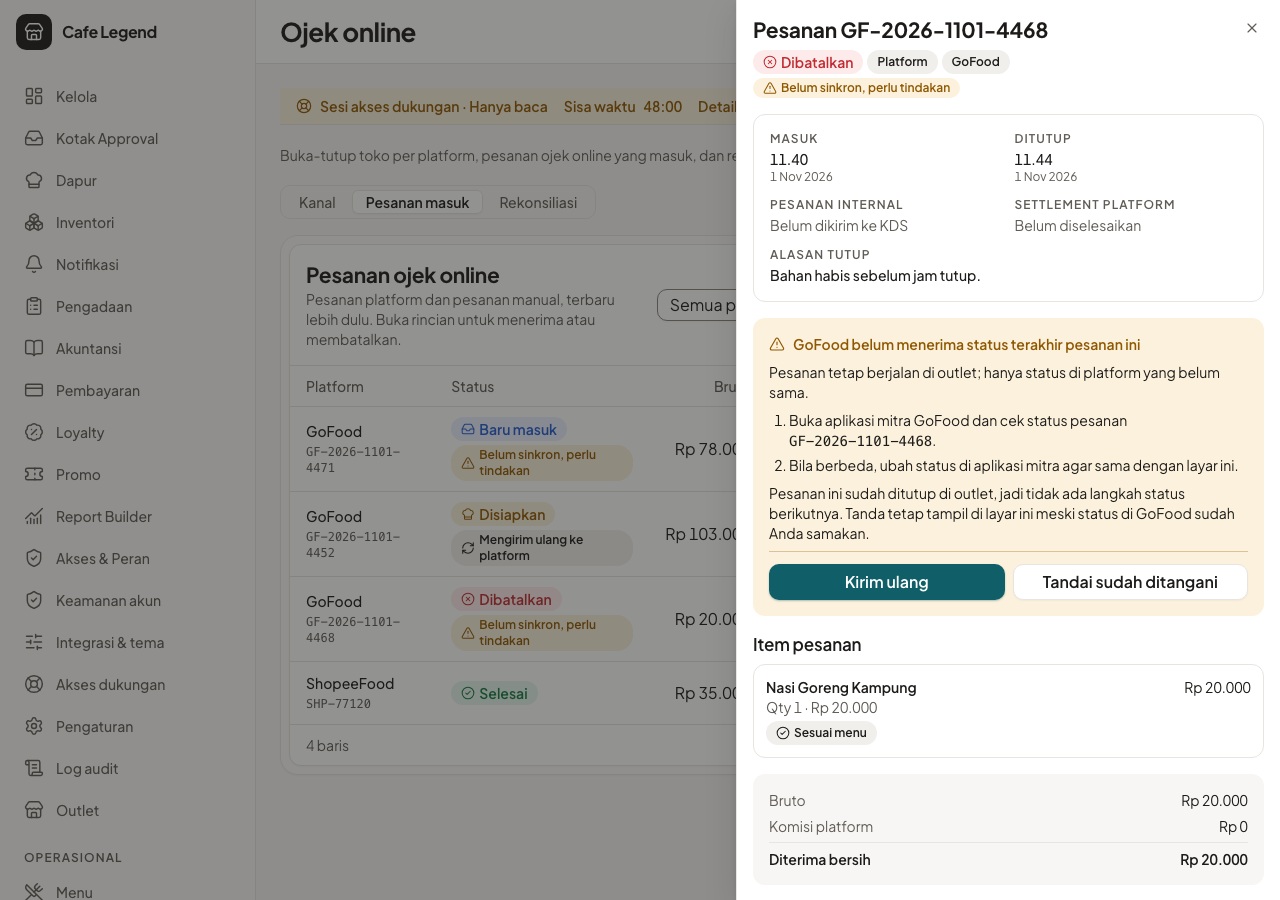
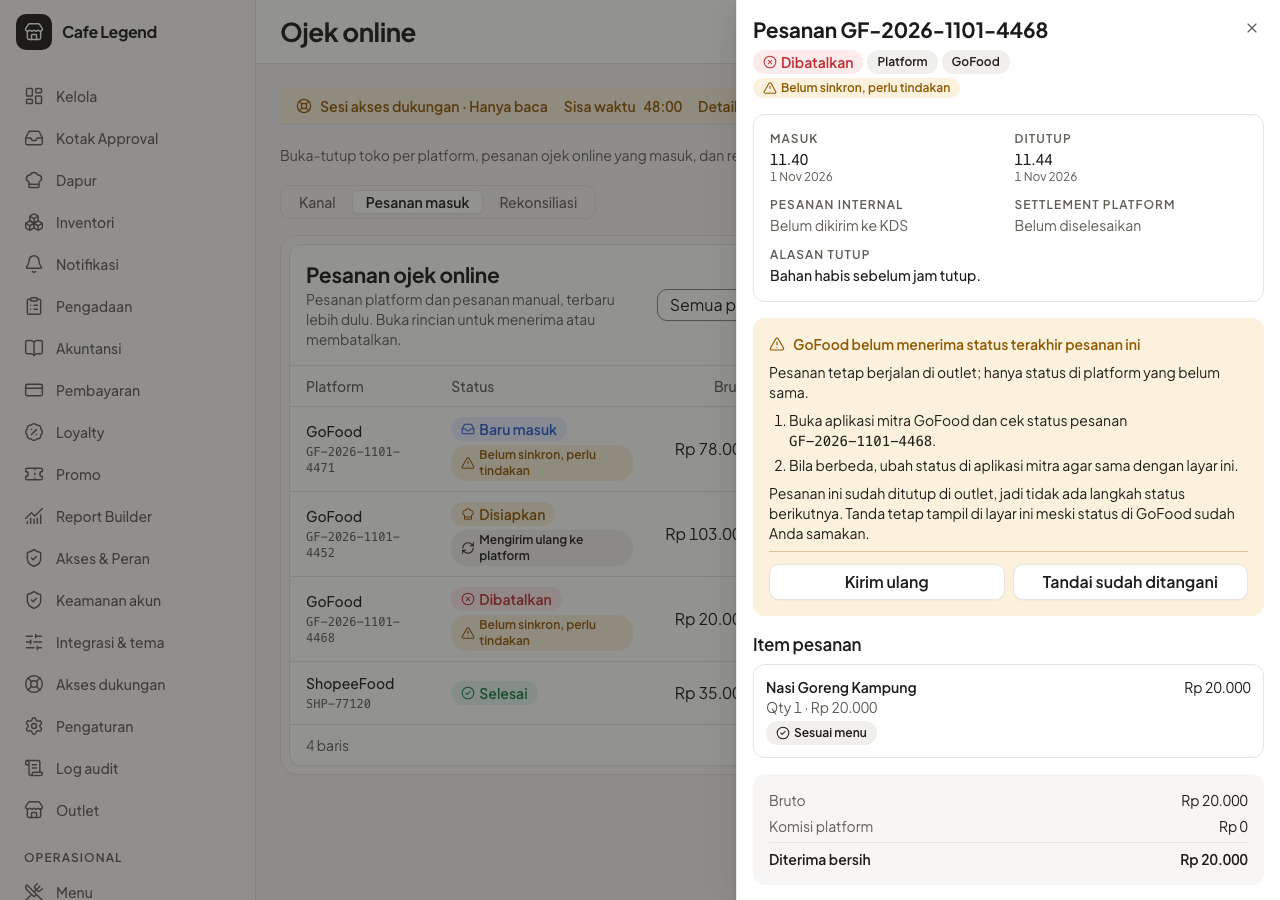
fix(delivery): review fixes for sync buttons (focus, stale 409 toast, mutual lock, read-only, copy) (legend-u37u3)

Changed region(s): [[0.5938, 0.6222, 0.7812, 0.6844]]

diff --git a/apps/web/src/features/ws08-delivery/components/order-detail-sheet.tsx b/apps/web/src/features/ws08-delivery/components/order-detail-sheet.tsx
@@ -20,6 +20,7 @@ import {
 import { Skeleton } from "@/components/ui/skeleton";
 import { Textarea } from "@/components/ui/textarea";
 import { useToast } from "@/components/ui/toast";
+import { useSupportReadOnly } from "@/features/ws01-support-access/read-only";
 import type {
   DeliveryChannelOrder,
   DeliveryOrderStatus,
@@ -130,6 +131,14 @@ function LineList({ order }: { order: DeliveryChannelOrder }) {
   );
 }
 
+function isStaleSync(error: unknown): boolean {
+  return (
+    typeof error === "object" &&
+    error !== null &&
+    (error as { code?: unknown }).code === "DELIVERY_SYNC_NOT_PENDING"
+  );
+}
+
 /**
  * Founder Q58: two recovery buttons on a `needs_action` order. Resend is one
  * request per press. Mark handled asks for an optional note first, because it
@@ -142,11 +151,13 @@ function PlatformSyncActions({
   order,
   platform,
   disabled,
+  onBusyChange,
 }: {
   outletId: string;
   order: DeliveryChannelOrder;
   platform: string;
   disabled: boolean;
+  onBusyChange: (busy: boolean) => void;
 }) {
   const t = useT();
   const toast = useToast();
@@ -155,6 +166,15 @@ function PlatformSyncActions({
   const [confirming, setConfirming] = React.useState(false);
   const [note, setNote] = React.useState("");
   const busy = resend.isPending || resolve.isPending;
+  const readOnly = useSupportReadOnly();
+  const locked = disabled || readOnly;
+  const resolveButton = React.useRef<HTMLButtonElement>(null);
+  // The status buttons below lock while a sync write is in flight, so the two
+  // never race on one order. Release on unmount: the mark clearing unmounts us.
+  React.useEffect(() => {
+    onBusyChange(busy);
+    return () => onBusyChange(false);
+  }, [busy, onBusyChange]);
   const stillFailing =
     resend.isSuccess && resend.data.platformSync === "needs_action";
   const error = resend.error ?? resolve.error;
@@ -172,8 +192,11 @@ function PlatformSyncActions({
           title: t("deliveryOps.platformSync.resendSuccess", { platform }),
           tone: "success",
         });
-    } catch {
-      // Shown below from `resend.error`.
+    } catch (caught) {
+      // Another staff member got there first: the refetch removes this block,
+      // so the inline error would never be seen. Say it in a toast instead.
+      if (isStaleSync(caught))
+        toast({ title: t(deliveryErrorKey(caught)), tone: "info" });
     }
   };
 
@@ -193,8 +216,9 @@ function PlatformSyncActions({
       });
       setConfirming(false);
       setNote("");
-    } catch {
-      // Shown below from `resolve.error`.
+    } catch (caught) {
+      if (isStaleSync(caught))
+        toast({ title: t(deliveryErrorKey(caught)), tone: "info" });
     }
   };
 
@@ -216,6 +240,7 @@ function PlatformSyncActions({
               placeholder={t("deliveryOps.platformSync.resolveNotePlaceholder")}
               rows={2}
               maxLength={300}
+              autoFocus
             />
           </FormField>
           <div className="flex flex-wrap gap-2">
@@ -227,14 +252,17 @@ function PlatformSyncActions({
                 setConfirming(false);
                 setNote("");
                 resolve.reset();
+                // The confirm area unmounts this button: hand focus back.
+                requestAnimationFrame(() => resolveButton.current?.focus());
               }}
             >
               {t("common.cancel")}
             </Button>
             <Button
               type="button"
+              variant="outline"
               loading={resolve.isPending}
-              disabled={disabled || busy}
+              disabled={locked || busy}
               onClick={() => void onResolve()}
             >
               {t("deliveryOps.platformSync.resolveConfirm")}
@@ -242,11 +270,20 @@ function PlatformSyncActions({
           </div>
         </div>
       )}
-      {stillFailing && (
-        <p role="status" className="font-medium">
-          {t("deliveryOps.platformSync.resendStillFailing", { platform })}
-        </p>
-      )}
+      <p
+        role="status"
+        className="flex items-start gap-1.5 font-medium text-warning empty:hidden"
+      >
+        {stillFailing && (
+          <>
+            <TriangleAlert
+              className="mt-0.5 size-4 shrink-0"
+              aria-hidden="true"
+            />
+            {t("deliveryOps.platformSync.resendStillFailing", { platform })}
+          </>
+        )}
+      </p>
       {error && (
         <p role="alert" className="font-medium text-danger">
           {t(deliveryErrorKey(error))}
@@ -256,16 +293,18 @@ function PlatformSyncActions({
         <div className="grid gap-2 sm:grid-cols-2">
           <Button
             type="button"
+            variant="outline"
             loading={resend.isPending}
-            disabled={disabled || busy}
+            disabled={locked || busy}
             onClick={() => void onResend()}
           >
             {t("deliveryOps.platformSync.resend")}
           </Button>
           <Button
+            ref={resolveButton}
             type="button"
             variant="outline"
-            disabled={disabled || busy}
+            disabled={locked || busy}
             onClick={() => {
               resend.reset();
               setConfirming(true);
@@ -285,11 +324,13 @@ function PlatformSyncNote({
   outletId,
   canAct,
   online,
+  onBusyChange,
 }: {
   order: DeliveryChannelOrder;
   outletId: string;
   canAct: boolean;
   online: boolean;
+  onBusyChange: (busy: boolean) => void;
 }) {
   const t = useT();
   if (order.platformSync === "ok") return null;
@@ -345,6 +386,7 @@ function PlatformSyncNote({
           order={order}
           platform={platform}
           disabled={!online}
+          onBusyChange={onBusyChange}
         />
       )}
     </div>
@@ -373,6 +415,7 @@ function OrderDetailBody({
   );
   const [reason, setReason] = React.useState("");
   const [showError, setShowError] = React.useState(false);
+  const [syncBusy, setSyncBusy] = React.useState(false);
 
   if (orderQuery.isPending) return <OrderSkeleton />;
   if (orderQuery.isError || !orderQuery.data)
@@ -395,7 +438,7 @@ function OrderDetailBody({
       ? t("deliveryOps.detail.reasonRequired")
       : undefined;
   const mutationError = update.error ? t(deliveryErrorKey(update.error)) : null;
-  const disabled = !canHandle || !online || update.isPending;
+  const disabled = !canHandle || !online || update.isPending || syncBusy;
 
   const moments: { labelKey: MessageKey; instant: string }[] = [
     { labelKey: "deliveryOps.detail.received", instant: order.receivedAt },
@@ -508,6 +551,7 @@ function OrderDetailBody({
           outletId={outletId}
           canAct={canHandle}
           online={online}
+          onBusyChange={setSyncBusy}
         />
 
         {order.customerNote && (

diff --git a/e2e/legend-u37u3.mock.spec.ts b/e2e/legend-u37u3.mock.spec.ts
@@ -55,7 +55,8 @@ const RESEND_OK_TOAST = "Terkirim ke GoFood. Tanda belum sinkron dihapus.";
 const RESEND_FAIL_TEXT =
   "Kirim ulang belum berhasil: GoFood masih menolak. Cek aplikasi mitra, lalu tekan Tandai sudah ditangani.";
 const HANDLED_TOAST = "Pesanan ditandai sudah ditangani.";
-const NOTE_LABEL = "Catatan (opsional)";
+// The label renders "Catatan" + "(opsional)" in separate spans (no space).
+const NOTE_LABEL = /^Catatan\s*\(opsional\)$/;
 const CONFIRM_HANDLED = "Ya, sudah ditangani";
 const RETRYING_NOTE =
   "Sistem sedang mengirim ulang status pesanan ini ke GoFood. Tidak ada yang perlu Anda lakukan.";

diff --git a/packages/shared/src/i18n/messages/ws08-delivery.ts b/packages/shared/src/i18n/messages/ws08-delivery.ts
@@ -180,7 +180,7 @@ export const deliveryOpsMessages = {
     resendSuccess: "Terkirim ke {platform}. Tanda belum sinkron dihapus.",
     resendStillFailing:
       "Kirim ulang belum berhasil: {platform} masih menolak. Cek aplikasi mitra, lalu tekan Tandai sudah ditangani.",
-    resolveNoteLabel: "Catatan (opsional)",
+    resolveNoteLabel: "Catatan",
     resolveNoteHint:
       "Contoh: status sudah disamakan lewat aplikasi mitra. Tersimpan di catatan audit.",
     resolveNotePlaceholder: "Tulis singkat bila perlu",
